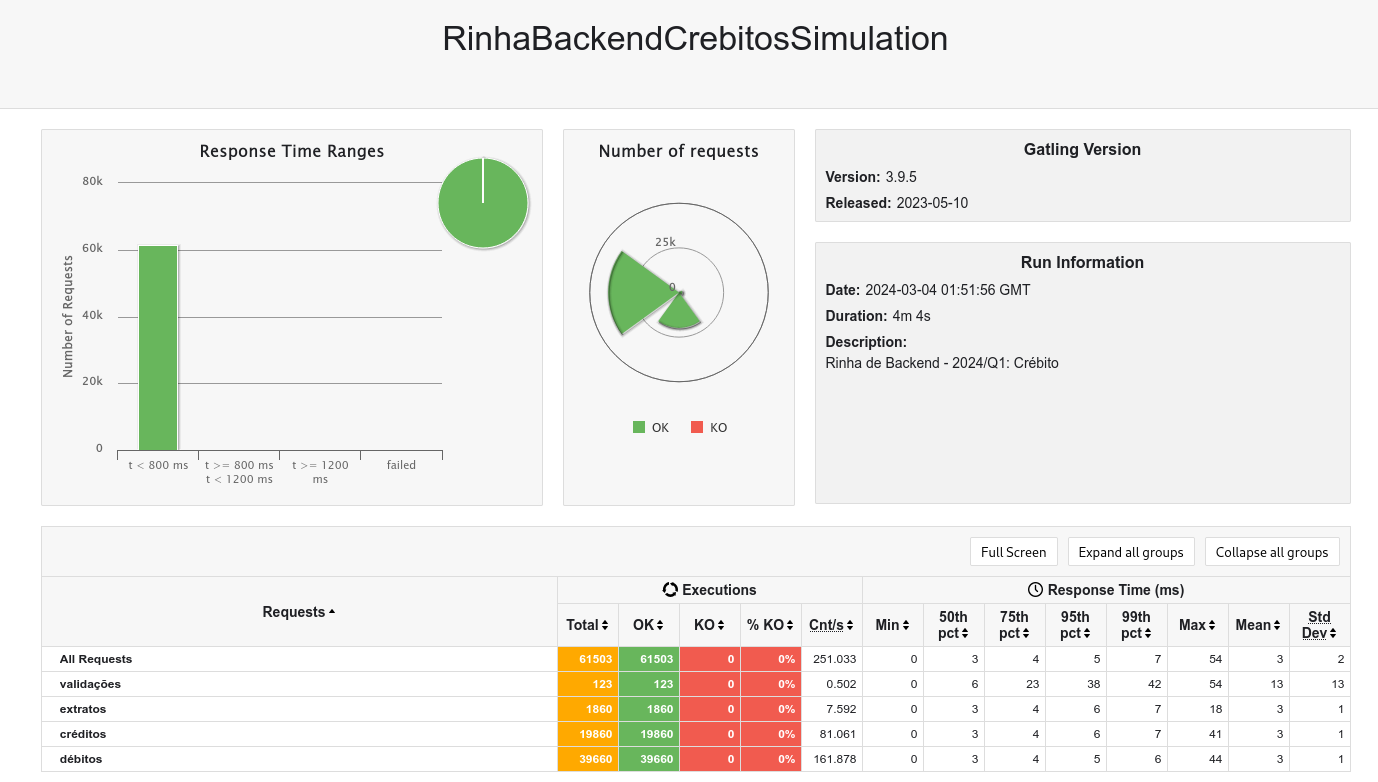
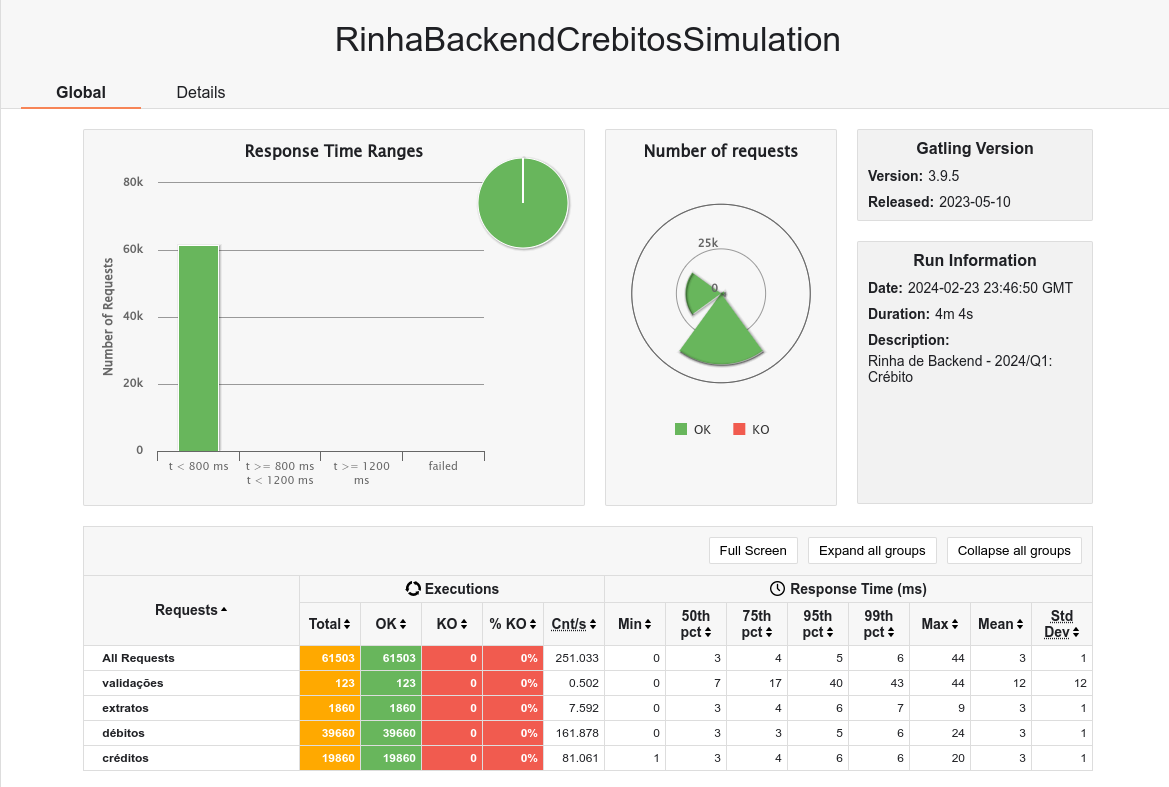
Revert "Sharding experiment."
This reverts commit 757113bf00ff9384556602fb52565c9146e84320.

diff --git a/app/src/controllers/RinhaController.cc b/app/src/controllers/RinhaController.cc
@@ -13,7 +13,7 @@ RinhaController::RinhaController() { std::cout << "RinhaController created. " <<
 //  curl http://localhost:9999/clientes/1/extrato | jq '.saldo.limite'
 
 void RinhaController::getStatement(const HttpRequestPtr& req, std::function<void(const HttpResponsePtr&)>&& callback, std::string clientId) {
-    auto dbClient = drogon::app().getFastDbClient(dbNameFromClientId_(clientId));
+    auto dbClient = drogon::app().getFastDbClient("default");
     if (!dbClient) {
         callback(errorResponse_("Database nao disponivel", HttpStatusCode::k503ServiceUnavailable));
     } else {
@@ -67,7 +67,7 @@ void RinhaController::processTransaction(const HttpRequestPtr& req, std::functio
         callback(errorResponse_("Requisicao invalida", HttpStatusCode::k422UnprocessableEntity));
         return;
     }
-    auto dbClient = drogon::app().getFastDbClient(dbNameFromClientId_(clientId));
+    auto dbClient = drogon::app().getFastDbClient("default");
     if (!dbClient) {
         callback(errorResponse_("Database nao disponivel", HttpStatusCode::k503ServiceUnavailable));
     } else {
@@ -134,18 +134,3 @@ std::shared_ptr<drogon::HttpResponse> RinhaController::errorResponse_(std::strin
     resp->setStatusCode(status);
     return resp;
 }
-
-std::string RinhaController::dbNameFromClientId_(std::string clientId) {
-    int clientIdInt;
-    try {
-        clientIdInt = std::atoi(clientId.c_str()) % 2;
-    } catch (std::exception& e) {
-        return "postgres01";
-    }
-    if (clientIdInt == 0) {
-        return "postgres02";
-    } else {
-        return "postgres01";
-    }
-}
-

diff --git a/app/src/controllers/RinhaController.h b/app/src/controllers/RinhaController.h
@@ -8,7 +8,6 @@ class RinhaController : public drogon::HttpController<RinhaController, false> {
    private:
     static bool validateTransactionRequest_(Json::Value &jsonRequest);
     static std::shared_ptr<drogon::HttpResponse> errorResponse_(std::string message, HttpStatusCode status);
-    static std::string dbNameFromClientId_(std::string clientId);
 
    public:
     METHOD_LIST_BEGIN

diff --git a/participantes/ramosfabiano/README.md b/participantes/ramosfabiano/README.md
@@ -1,6 +1,5 @@
 # Submissão para Rinha de Backend, Segunda Edição: 2024/Q1 - Controle de Concorrência
 
-V2 - Sharding
 
 <img src="https://upload.wikimedia.org/wikipedia/commons/c/c5/Nginx_logo.svg" alt="logo nginx" width="300" height="auto">
 <br />
@@ -15,5 +14,5 @@ Submissão feita com:
 - `nginx` como load balancer
 - `postgres` como banco de dados
 - `drogon` web framework
-- [Repositório](https://github.com/ramosfabiano/rinha-de-backend-2024-q1) (tag: v2)
+- [Repositório](https://github.com/ramosfabiano/rinha-de-backend-2024-q1) (tag: v1)
 
